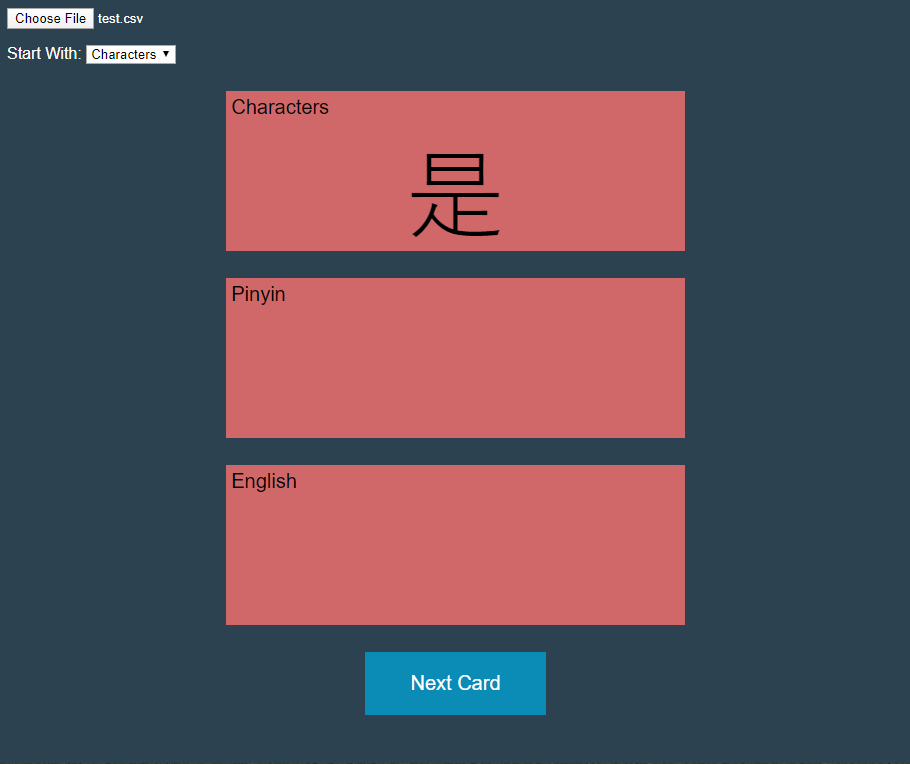
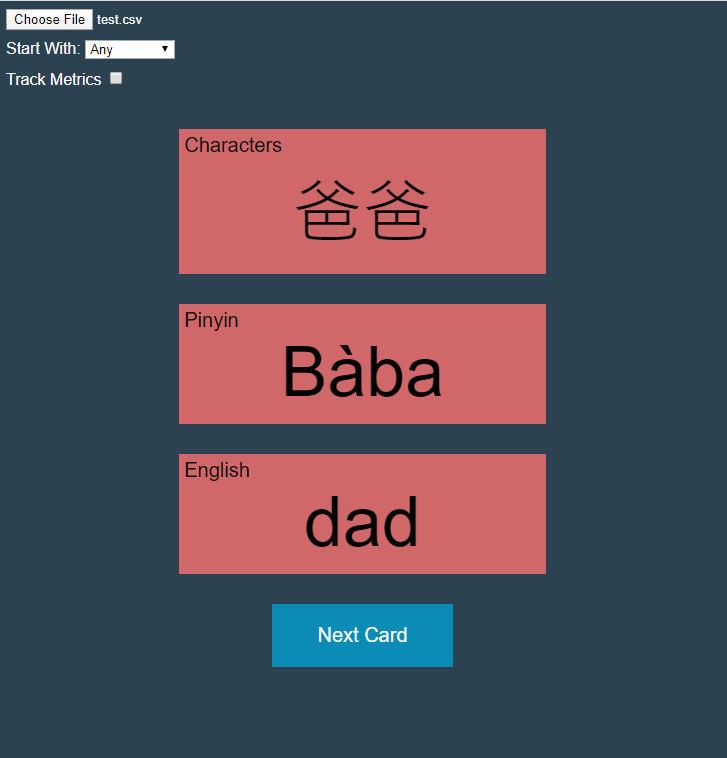
update readme

diff --git a/README.md b/README.md
@@ -50,6 +50,11 @@ The app will then reveal that side to the flashcard and the user can click to re
 
 Upon hitting "Next Card" this process will repeat.
 
+If you check the box labeled "Track Metrics" then the app will record how many times you got the card right or wrong.
+You can save your card set with metrics to a new CSV by hitting save.
+
+<img src="./screenshot_with_metrics.PNG" width="700">
+
 ## Development
 
 This is plain Javascript, HTML, and CSS. It's hosted with AWS S3. Nothing fancy.
